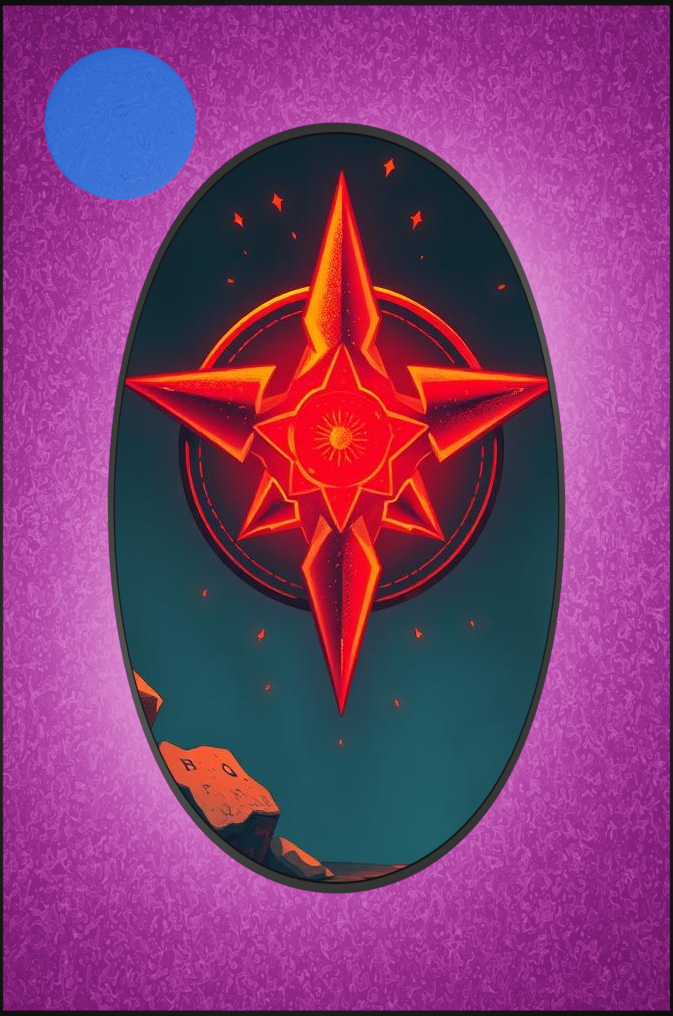
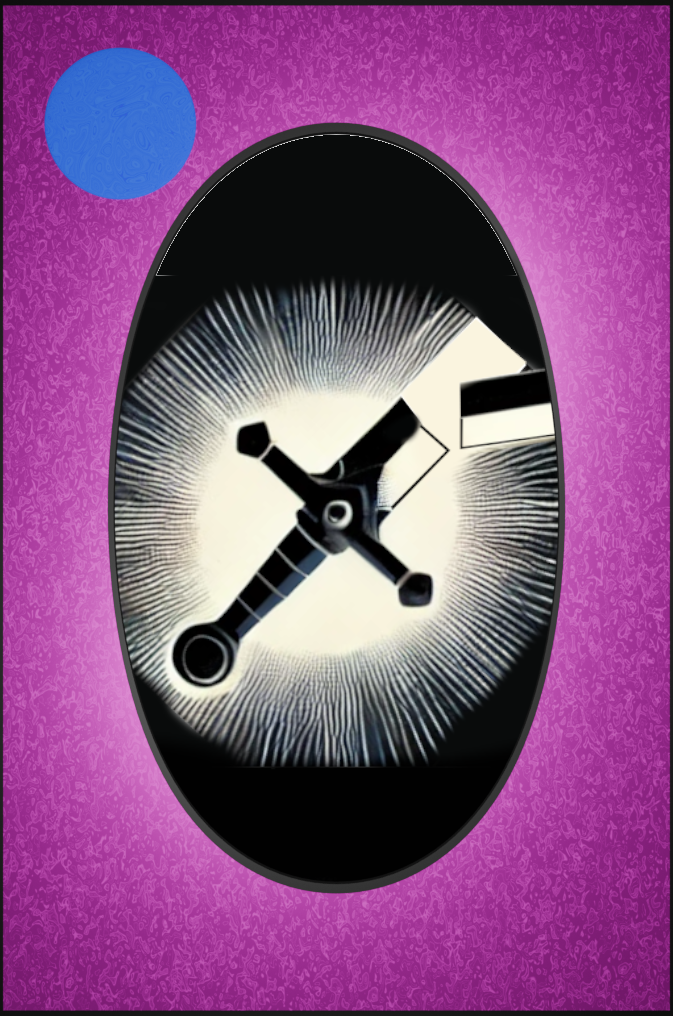
#3 Card Pictures

diff --git a/script.js b/script.js
@@ -9,13 +9,13 @@ class Card {
 const CardTypes = [
     new Card("Attack",          1, 15, "Pictures/Cards/Attack.png"),
     new Card("LightningStrike", 2, 12, "Pictures/Cards/LightningStrike.png"),
-    new Card("Heal",            2, 15, "Pictures/Cards/Heal.png"),
-    new Card("Regen",           3, 10, "Pictures/Cards/Regen.png"),
+    new Card("PommelStrike",    0, 4,  "Pictures/Cards/PommelStrike.png"),
+    new Card("Heal",            3, 25, "Pictures/Cards/Heal.png"),
     new Card("AttackDebuff",    2, 25, "Pictures/Cards/AttackDebuff.png"),
-    new Card("DefenseDebuff",   2, 25, "Pictures/Cards/DefenseDebuff.png"),
+    new Card("DefenseDebuff",   2, 50, "Pictures/Cards/DefenseDebuff.png"),
     new Card("AttackUp",        3, 15, "Pictures/Cards/AttackUp.png"),
-    new Card("Block",           1, 1,  "Pictures/Cards/Block.png"),
-    new Card("DrawCards",       0, 2,  "Pictures/Cards/DrawCards.png")
+    new Card("Block",           1, 8,  "Pictures/Cards/Block.png"),
+    new Card("DrawCards",       1, 2,  "Pictures/Cards/DrawCards.png")
 ]
 
 class Enemy {

diff --git a/fight.html b/fight.html
@@ -6,7 +6,7 @@
     <title>Slay the Beast</title>
     <link rel="stylesheet" href="style.css">
 </head>
-<body style="overflow-y: hidden;">
+<body id="harc" style="overflow-y: hidden;">
     <div id="fight">
         <a href="index.html" class="back-button"><img src="Pictures/backbutton.png" alt="back" class="button" style="width: 50px;"></a>
         <p id="rounds">Kör: 1/3</p>
@@ -33,6 +33,6 @@
         <div id="next-card" style="flex: 2;"></div>
     </div>
 
-    <script src="scripts/script.js"></script>
+    <script src="script.js"></script>
 </body>
 </html>

diff --git a/style.css b/style.css
@@ -65,7 +65,7 @@ h1 {
   margin-bottom: 5px;
 }
 
-#cards {
+#magyarazat #cards {
   display: flex;
   justify-content: center;
   align-items: center;
@@ -258,9 +258,8 @@ h1 {
   cursor: grab;
 }
 
-#cards {
+#harc #cards {
   background-color: #f0f0f0;
   display: flex;
-  flex-direction: row;
   justify-content: space-between;
 }

diff --git a/magyarazat.html b/magyarazat.html
@@ -8,7 +8,7 @@
     <link rel="stylesheet" href="style.css">
 </head>
 
-<body>
+<body id="magyarazat">
     <div id="magyarazat-bg"></div>
     <h1 class="foCim">Slay the beast</h1>
     <a href="index.html" class="back-button"><img src="Pictures/backbutton.png" alt="back" class="button" style="width: 50px;"></a>
